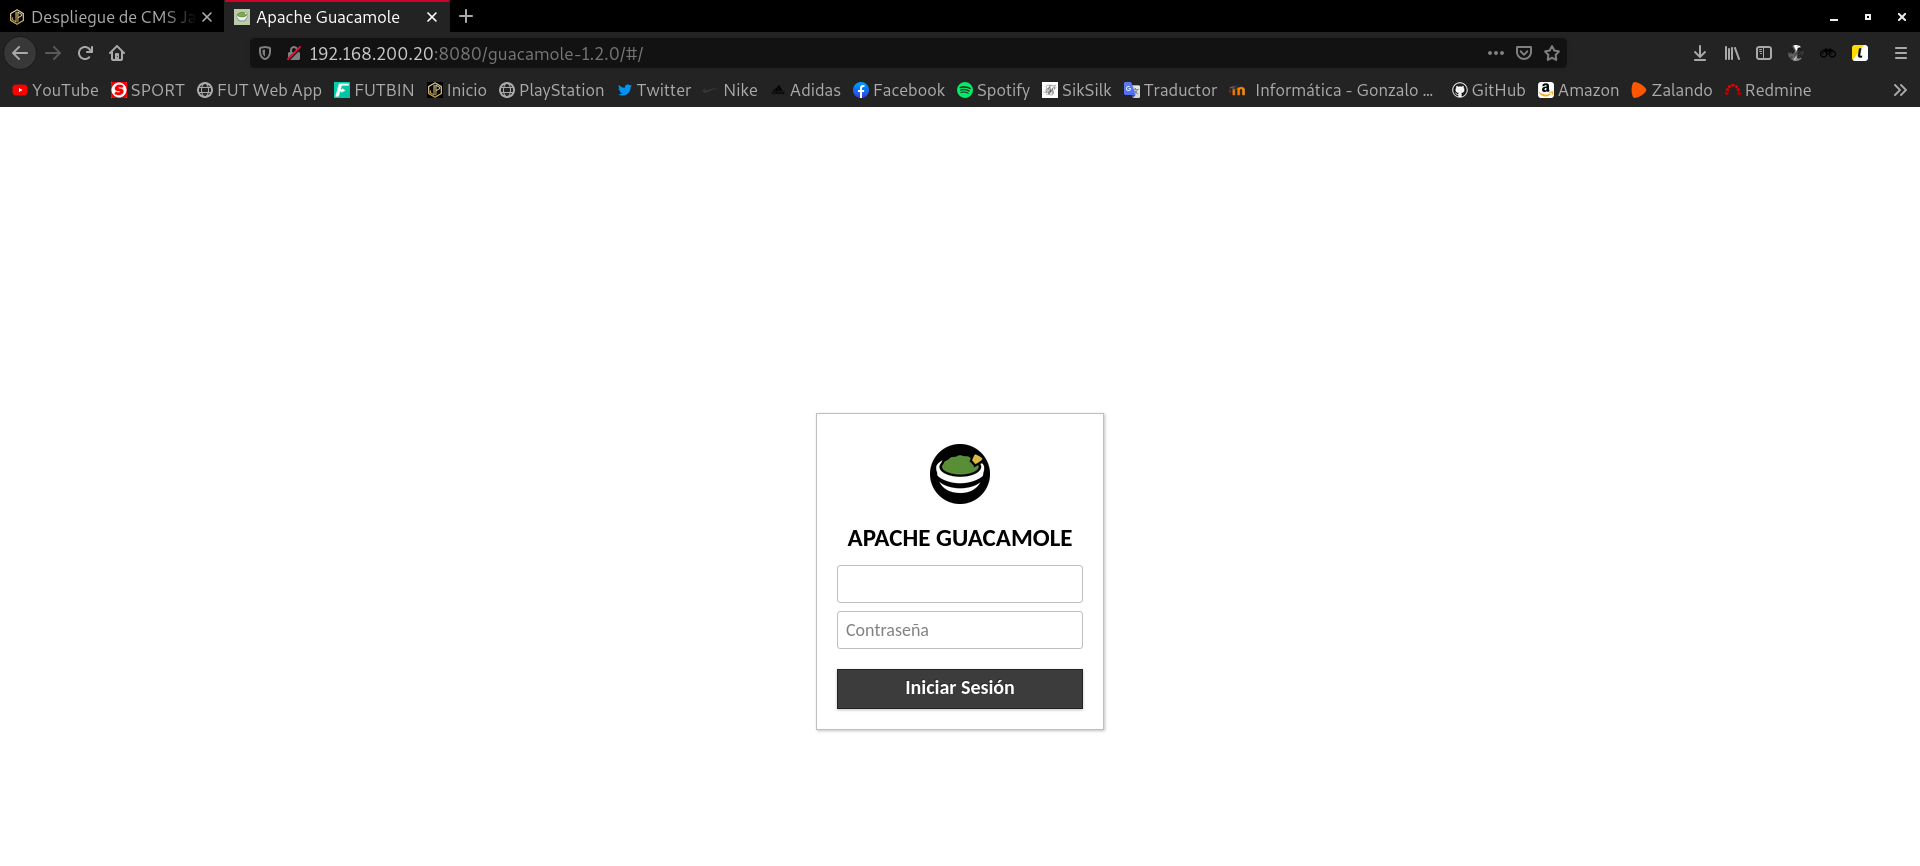
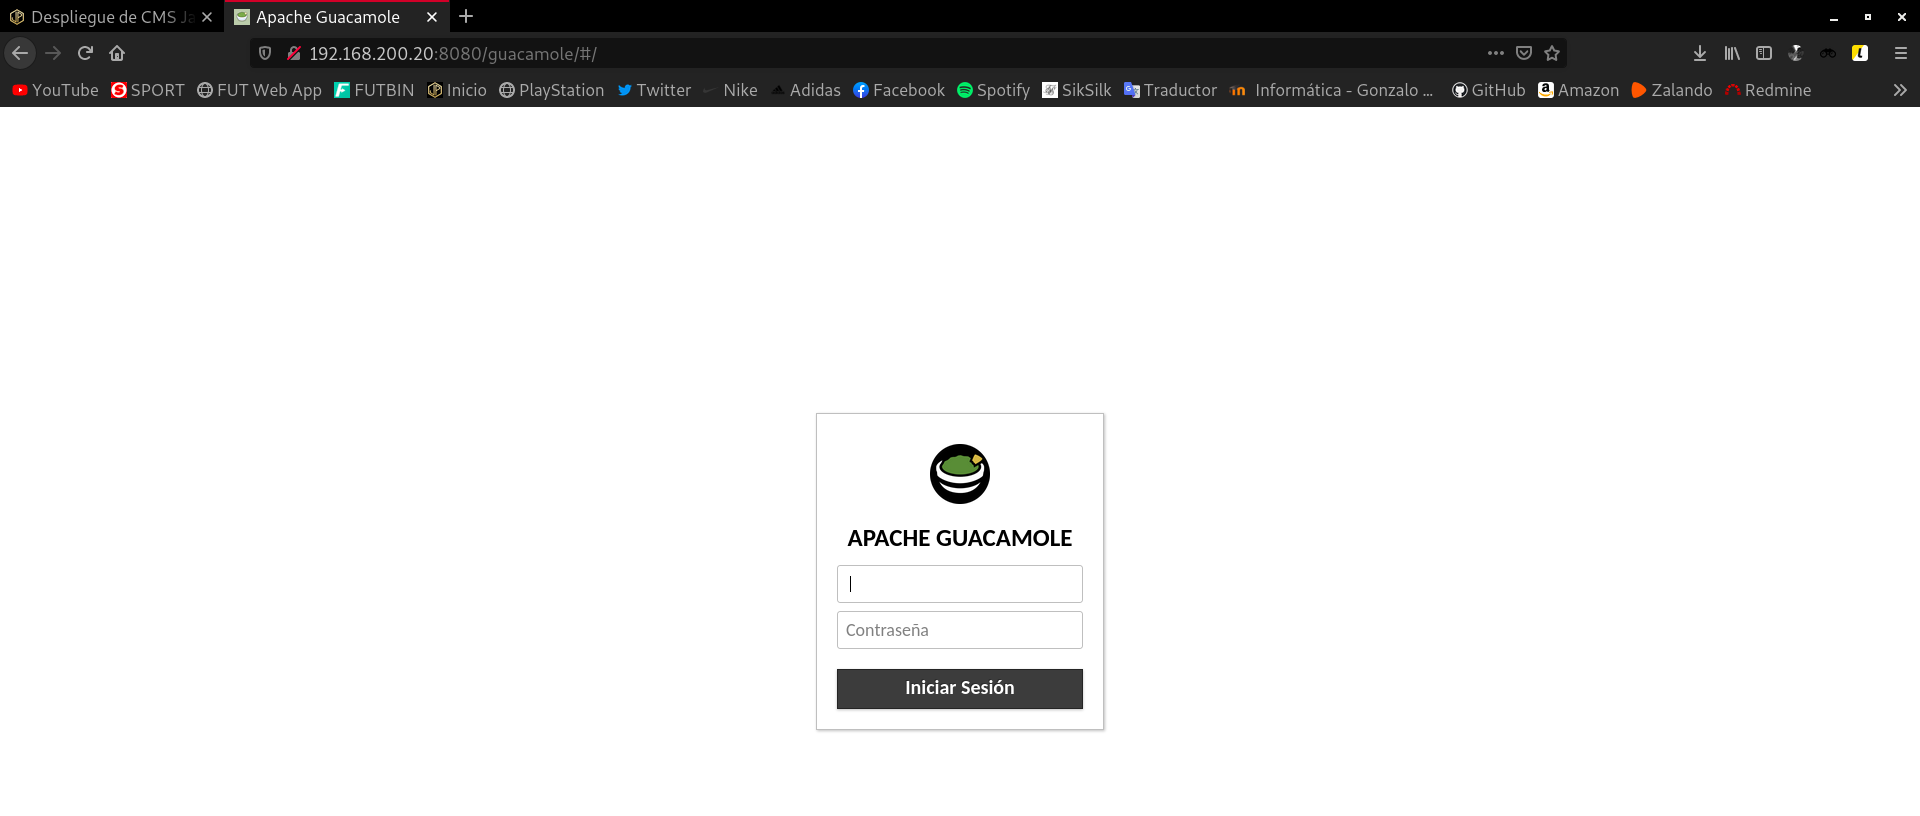
cambios

Changed region(s): [[0.0, 0.0, 1.0, 0.1532], [0.4375, 0.7047, 0.5625, 0.8885], [0.4375, 0.4902, 0.5625, 0.674]]

diff --git a/content/iaw_despliegue_de_CMS_Java.md b/content/iaw_despliegue_de_CMS_Java.md
@@ -79,7 +79,7 @@ root@buster:~# ls
 guacamole-1.2.0.war
 </pre>
 
-
+Una vez la hemos descargado, tenemos que mover el archivo `.war` al directorio `/var/lib/tomcat9/webapps`, y podremos apreciar como automáticamente, al almacenar el fichero en esta ruta, se descomprime generando una carpeta llamada `guacamole-1.2.0` que es la que contiene la aplicación:
 
 <pre>
 root@buster:~# mv guacamole-1.2.0.war /var/lib/tomcat9/webapps
@@ -93,9 +93,42 @@ fonts	   guacamole.css	guacamole.min.js   layouts	relocateParameters.js
 generated  guacamole.js		images		   license.txt	translations
 </pre>
 
+Antes de probar a acceder desde el navegador, en mi caso, prefiero cambiarle el nombre a este nuevo directorio, para así no tener que escribir también la versión en cada acceso a la web:
 
+<pre>
+root@buster:/var/lib/tomcat9/webapps# mv guacamole-1.2.0 guacamole
+
+root@buster:/var/lib/tomcat9/webapps# ls
+guacamole  guacamole-1.2.0.war	ROOT
+</pre>
+
+Hecho esto, vamos a probar a acceder a la dirección `192.168.200.20:8080/guacamole`:
 
 ![.](images/iaw_despliegue_de_CMS_Java/guacamole8080.png)
+
+
+
+
+
+
+
+
+
+
+
+
+
+
+
+
+
+
+
+
+
+
+
+
 
 
 #### ¿Has necesitado instalar alguna librería? ¿Has necesitado instalar un conector de una base de datos?
